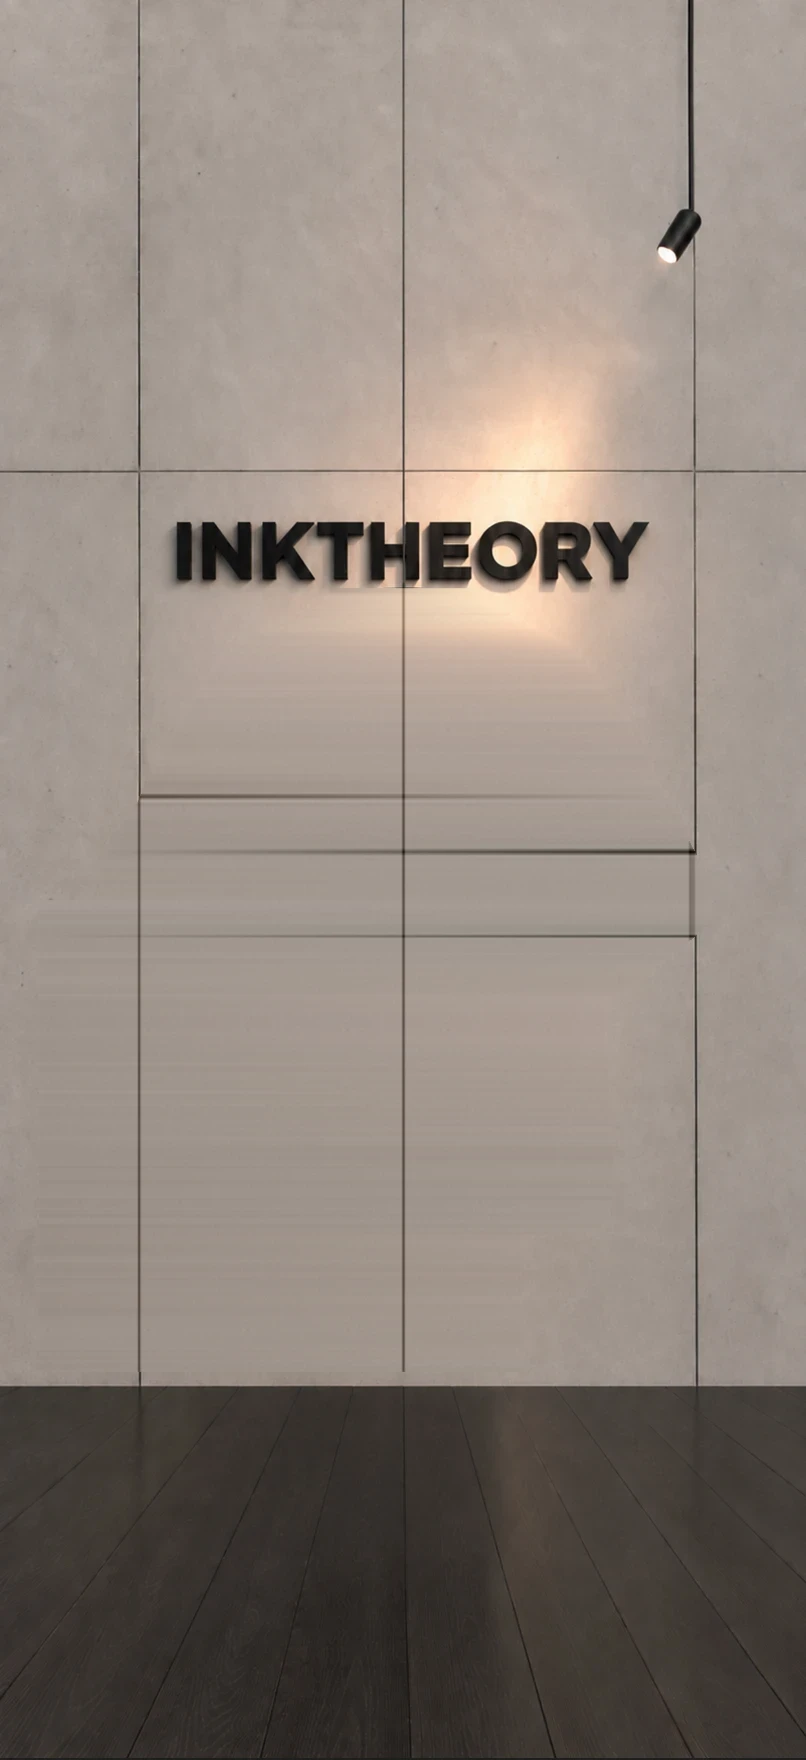
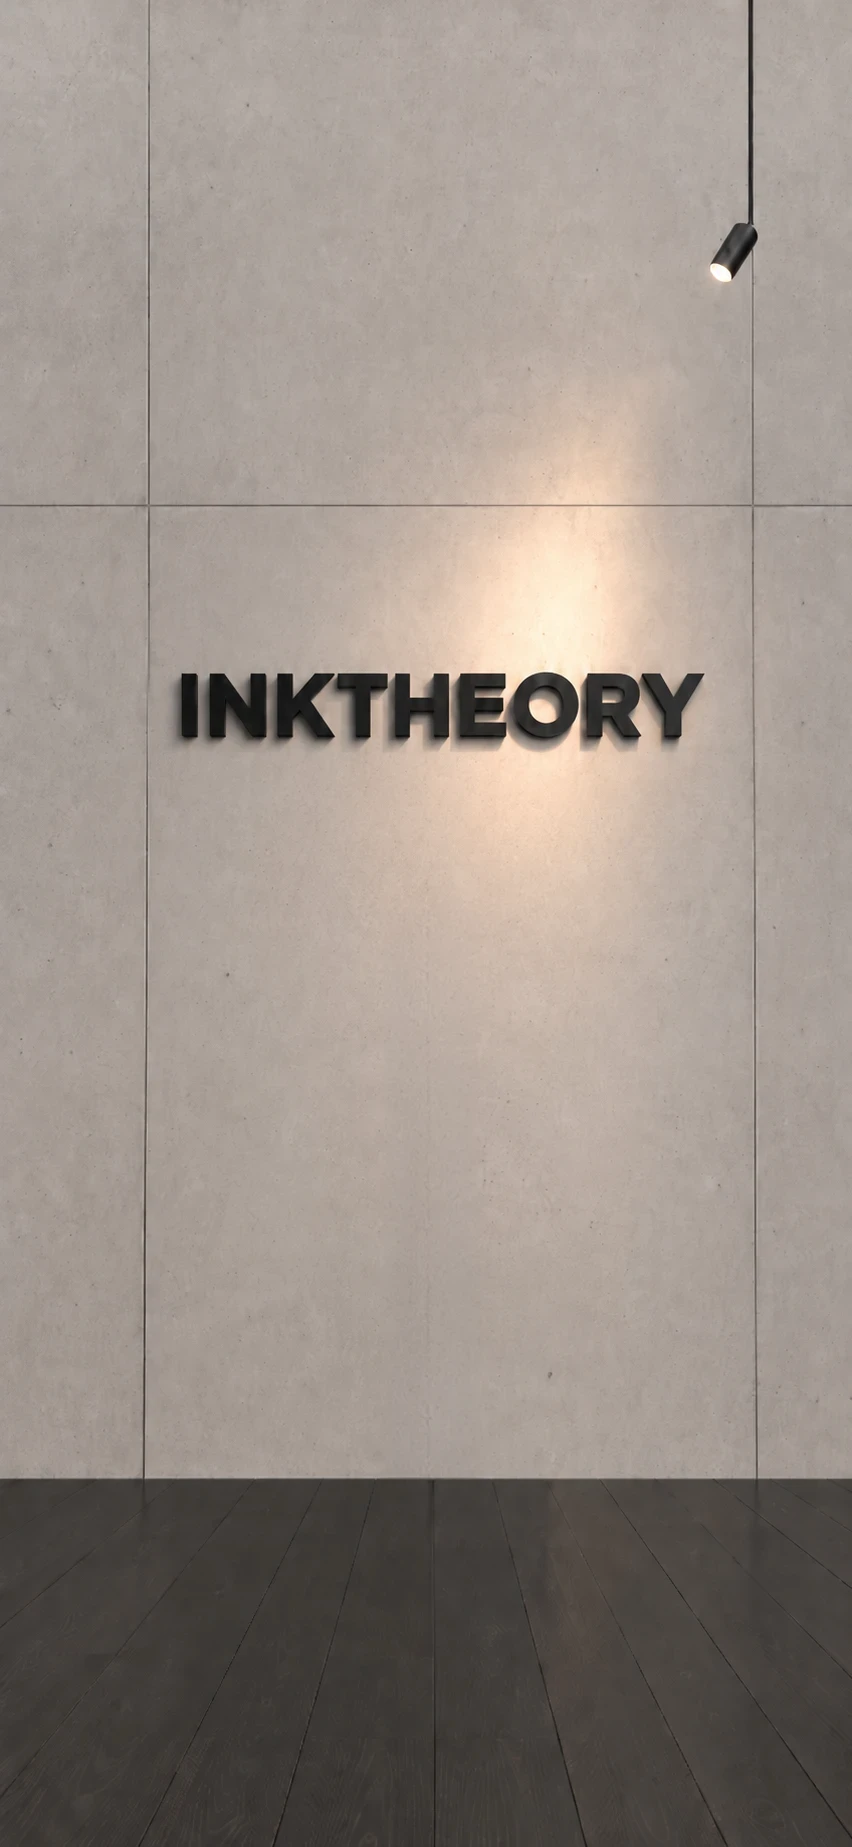
Collection rail: fix swipe direction and use the rendered empty room as the plate

diff --git a/public/artistxcollab/c/collection/collection.js b/public/artistxcollab/c/collection/collection.js
@@ -22,10 +22,9 @@
       '<img class="bg" src="'+data.background+'" alt="" aria-hidden="true">' +
       '<img class="room" src="'+data.background+'" alt="" aria-hidden="true"><div class="vignette"></div>');
   }
-  var hookY = (data.hookY || 0.34) * 100;
   var els = garments.map(function(g, i){
     var el = document.createElement('div'); el.className = 'g'; el.dataset.i = i;
-    el.innerHTML = '<div class="swing" style="transform-origin:50% '+hookY+'%">' +
+    el.innerHTML = '<div class="swing">' +
       '<img class="hero" src="'+g.image+'" alt="'+(g.name||'')+'" draggable="false">' +
       '<div class="pins"></div></div>';
     var pins = el.querySelector('.pins');
@@ -53,15 +52,18 @@
       var iw = (g.imageSize && g.imageSize[0]) || 920, ih = (g.imageSize && g.imageSize[1]) || 2000;
       var s = desktop() ? Math.min(W/iw, H/ih) : Math.max(W/iw, H/ih);
       var rw = iw*s, rh = ih*s, pins = els[i].querySelector('.pins'), hero = els[i].querySelector('.hero');
-      pins.style.left = ((W-rw)/2)+'px'; pins.style.top = ((H-rh)/2)+'px'; pins.style.width = rw+'px'; pins.style.height = rh+'px';
-      hero.style.left = ((W-rw)/2)+'px'; hero.style.top = ((H-rh)/2)+'px'; hero.style.width = rw+'px'; hero.style.height = rh+'px';
+      var shift = (g.shiftY != null ? g.shiftY : (data.garmentShiftY || 0)) * rh;
+      var left = (W-rw)/2, top = (H-rh)/2 + shift;
+      pins.style.left = left+'px'; pins.style.top = top+'px'; pins.style.width = rw+'px'; pins.style.height = rh+'px';
+      hero.style.left = left+'px'; hero.style.top = top+'px'; hero.style.width = rw+'px'; hero.style.height = rh+'px';
+      els[i].querySelector('.swing').style.transformOrigin = (W/2)+'px '+(top + (data.hookY || 0.34)*rh)+'px';
     });
   }
 
   var cur = 0, W = stage.clientWidth;
   // garments hang on a rail: they track the finger 1:1 and swing from the hook as they move
   function place(el, pos, dx){
-    var t = pos + (dx ? -dx/W : 0);
+    var t = pos + (dx ? dx/W : 0);
     el.style.transform = 'translateX('+(t * 100)+'%)';
     el.style.opacity = 1;
     el.style.zIndex = pos === 0 ? 3 : 2;

diff --git a/public/artistxcollab/c/collection/collection-data.js b/public/artistxcollab/c/collection/collection-data.js
@@ -4,8 +4,9 @@ window.AXC_COLLECTION = {
   title: "Your Collection",
   // the room stays put; garments are transparent cutouts on the same 806x1760 canvas, hook at ~34% down
   background: "/artistxcollab/img/garments/room.webp",
-  backgroundSize: [806, 1760],
+  backgroundSize: [852, 1847],
   hookY: 0.34,
+  garmentShiftY: 0.10,   // hang the rail just under the sign in this room
   garments: [
     {
       id: "sb-saints-after-dark",
